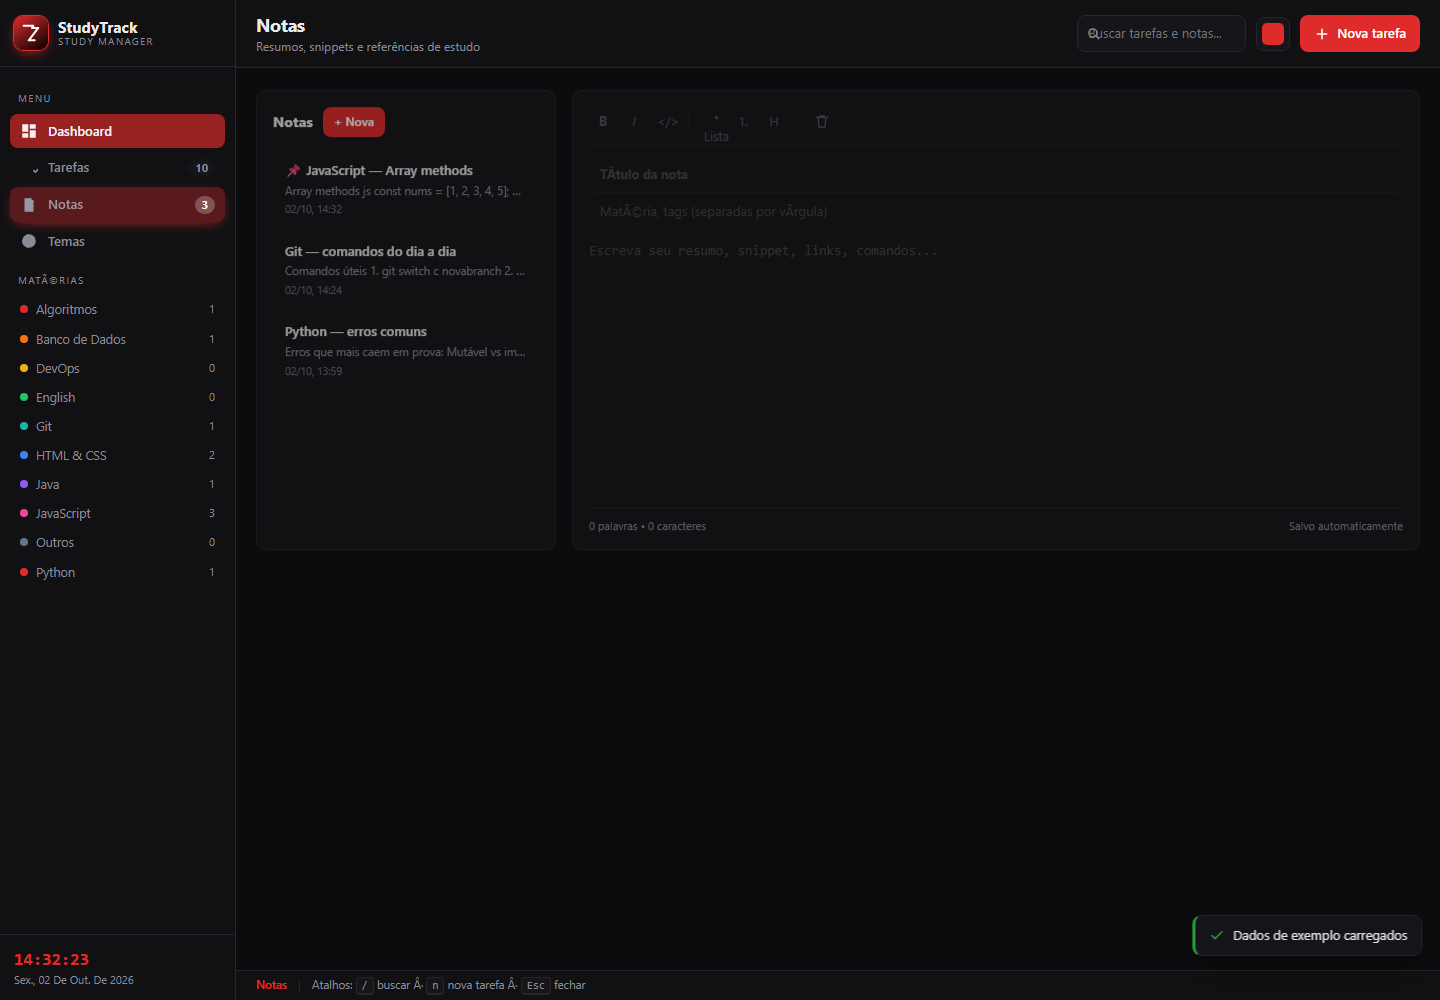
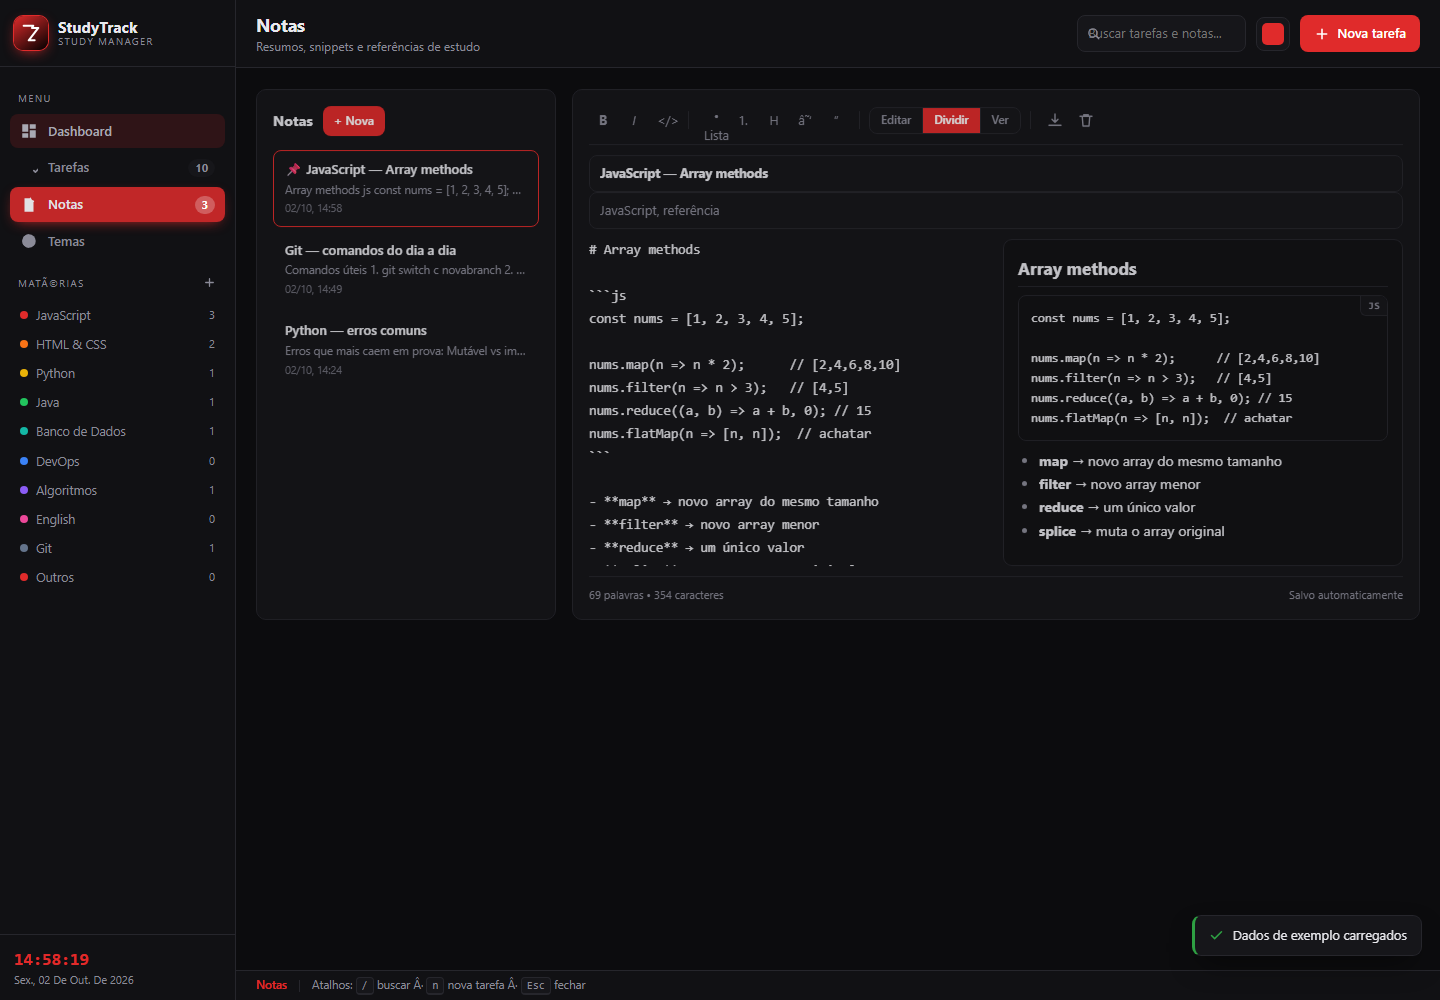
fixing things

diff --git a/js/app.js b/js/app.js
@@ -60,6 +60,7 @@ const defaultPrefs = {
   density: 'normal',
   motion: 'on',
   font: 'system',
+  notesMode: 'split',
   accentCustom: false,
   subjectColors: {}
 };
@@ -213,6 +214,7 @@ function applyPrefs() {
   el('opt-font').value = prefs.font;
   const metaTheme = document.querySelector('meta[name="theme-color"]');
   if (metaTheme) metaTheme.setAttribute('content', prefs.theme === 'paper' ? '#f2f3f6' : '#0c0c0e');
+  if (el('editor-body')) setNotesMode(prefs.notesMode);
   renderThemeGrid();
 }
 
@@ -625,6 +627,133 @@ function renderRecentNotes() {
 const escapeHtml = s => String(s ?? '').replace(/[&<>"']/g, c =>
   ({ '&':'&amp;','<':'&lt;','>':'&gt;','"':'&quot;',"'":'&#39;' }[c]));
 
+/* ================= markdown ================= */
+const safeUrl = u => /^(https?:\/\/|mailto:|#|\/|\.{1,2}\/)/i.test(String(u).trim()) ? String(u).trim() : '#';
+
+const mdInline = raw => escapeHtml(raw)
+  .replace(/!\[([^\]]*)\]\(([^)\s]+)\)/g, (_, alt, url) =>
+    `<img src="${safeUrl(url)}" alt="${alt}" loading="lazy">`)
+  .replace(/\[([^\]]+)\]\(([^)\s]+)\)/g, (_, txt, url) =>
+    `<a href="${safeUrl(url)}" target="_blank" rel="noopener noreferrer">${txt}</a>`)
+  .replace(/`([^`]+)`/g, '<code>$1</code>')
+  .replace(/\*\*\*([^*]+)\*\*\*/g, '<strong><em>$1</em></strong>')
+  .replace(/\*\*([^*]+)\*\*/g, '<strong>$1</strong>')
+  .replace(/(^|[^*\w])\*([^*\n]+)\*/g, '$1<em>$2</em>')
+  .replace(/(^|[^_\w])__([^_\n]+)__/g, '$1<strong>$2</strong>')
+  .replace(/(^|[^_\w])_([^_\n]+)_/g, '$1<em>$2</em>')
+  .replace(/~~([^~]+)~~/g, '<del>$1</del>')
+  .replace(/==([^=\n]+)==/g, '<mark>$1</mark>');
+
+function mdToHtml(md) {
+  const lines = String(md ?? '').replace(/\r\n?/g, '\n').split('\n');
+  const out = [];
+  let para = [];
+  let list = null;
+  let quote = false;
+  let i = 0;
+
+  const closePara = () => {
+    if (para.length) {
+      out.push(`<p>${mdInline(para.join(' '))}</p>`);
+      para = [];
+    }
+  };
+  const closeList = () => {
+    if (list) { out.push(`</${list}>`); list = null; }
+  };
+  const closeQuote = () => {
+    if (quote) { out.push('</blockquote>'); quote = false; }
+  };
+  const closeBlocks = () => { closePara(); closeList(); closeQuote(); };
+
+  while (i < lines.length) {
+    const line = lines[i];
+
+    const fence = line.match(/^```+\s*([\w+#.-]*)\s*$/);
+    if (fence) {
+      closeBlocks();
+      const lang = fence[1] || '';
+      const buf = [];
+      i++;
+      while (i < lines.length && !/^```+\s*$/.test(lines[i])) { buf.push(lines[i]); i++; }
+      i++;
+      out.push(`<pre data-lang="${escapeHtml(lang)}"><code>${escapeHtml(buf.join('\n'))}</code></pre>`);
+      continue;
+    }
+
+    const heading = line.match(/^(#{1,6})\s+(.*)$/);
+    if (heading) {
+      closeBlocks();
+      const level = Math.min(heading[1].length + 1, 6);
+      out.push(`<h${level}>${mdInline(heading[2].trim())}</h${level}>`);
+      i++;
+      continue;
+    }
+
+    if (/^([-*_])\s*(\1\s*){2,}$/.test(line)) {
+      closeBlocks();
+      out.push('<hr>');
+      i++;
+      continue;
+    }
+
+    if (/^>\s?/.test(line)) {
+      closePara();
+      closeList();
+      const inner = [];
+      if (!quote) { out.push('<blockquote>'); quote = true; }
+      while (i < lines.length && /^>\s?/.test(lines[i])) {
+        inner.push(lines[i].replace(/^>\s?/, ''));
+        i++;
+      }
+      out.push(mdToHtml(inner.join('\n')));
+      continue;
+    }
+
+    const task = line.match(/^[-*+]\s+\[([ xX])\]\s+(.*)$/);
+    if (task) {
+      closePara();
+      closeQuote();
+      if (list !== 'ul') { closeList(); out.push('<ul class="md-tasks">'); list = 'ul'; }
+      out.push(`<li><input type="checkbox" disabled${task[1].toLowerCase() === 'x' ? ' checked' : ''}><span>${mdInline(task[2])}</span></li>`);
+      i++;
+      continue;
+    }
+
+    const ul = line.match(/^[-*+]\s+(.*)$/);
+    if (ul) {
+      closePara();
+      closeQuote();
+      if (list !== 'ul') { closeList(); out.push('<ul>'); list = 'ul'; }
+      out.push(`<li>${mdInline(ul[1])}</li>`);
+      i++;
+      continue;
+    }
+
+    const ol = line.match(/^\d+[.)]\s+(.*)$/);
+    if (ol) {
+      closePara();
+      closeQuote();
+      if (list !== 'ol') { closeList(); out.push('<ol>'); list = 'ol'; }
+      out.push(`<li>${mdInline(ol[1])}</li>`);
+      i++;
+      continue;
+    }
+
+    if (!line.trim()) {
+      closeBlocks();
+      i++;
+      continue;
+    }
+
+    para.push(line.trim());
+    i++;
+  }
+
+  closeBlocks();
+  return out.join('');
+}
+
 function renderNoteList() {
   const q = ui.search.trim().toLowerCase();
   const list = [...notes]
@@ -645,7 +774,11 @@ function renderNoteList() {
 }
 
 function renderEditor() {
-  const n = notes.find(x => x.id === ui.activeNoteId);
+  let n = notes.find(x => x.id === ui.activeNoteId);
+  if (!n && notes.length) {
+    ui.activeNoteId = notes[0].id;
+    n = notes[0];
+  }
   const has = !!n;
   ['note-title', 'note-tags', 'note-content'].forEach(id => {
     el(id).disabled = !has;
@@ -658,18 +791,54 @@ function renderEditor() {
     el('note-tags').value = '';
     el('note-content').value = '';
     el('note-meta').textContent = '0 palavras • 0 caracteres';
+    renderPreview();
     return;
   }
   el('note-title').value = n.title;
   el('note-tags').value = n.tags.join(', ');
   el('note-content').value = n.content;
   updateNoteMeta();
+  renderPreview();
 }
 
 function updateNoteMeta() {
   const v = el('note-content').value;
   const words = v.trim() ? v.trim().split(/\s+/).length : 0;
   el('note-meta').textContent = `${words} palavra${words !== 1 ? 's' : ''} • ${v.length} caracteres`;
+}
+
+function renderPreview() {
+  const box = el('note-preview');
+  if (!box) return;
+  const html = mdToHtml(el('note-content').value);
+  box.innerHTML = html || '<p class="md-empty">Nada para visualizar ainda — comece a escrever em Markdown.</p>';
+}
+
+function setNotesMode(mode) {
+  prefs.notesMode = ['edit', 'split', 'preview'].includes(mode) ? mode : 'split';
+  el('editor-body').dataset.mode = prefs.notesMode;
+  $$('.mode-btn').forEach(b => b.classList.toggle('is-active', b.dataset.mode === prefs.notesMode));
+  save(K.prefs, prefs);
+}
+
+function downloadNoteAsMd() {
+  const n = notes.find(x => x.id === ui.activeNoteId);
+  if (!n) { toast('Abra uma nota antes de exportar', 'warn'); return; }
+  const title = n.title.trim() || 'nota';
+  const front = [`# ${title}`];
+  if (n.tags.length) front.push(`_${n.tags.join(' · ')}_`);
+  front.push(`_atualizado em ${fmtDateTime(n.updatedAt)} · StudyTrack_`, '');
+  const body = `${front.join('\n')}\n${n.content.trim()}\n`;
+  const slug = title.toLowerCase().normalize('NFD').replace(/[\u0300-\u036f]/g, '')
+    .replace(/[^a-z0-9]+/g, '-').replace(/^-|-$/g, '') || 'nota';
+  const url = URL.createObjectURL(new Blob([body], { type: 'text/markdown;charset=utf-8' }));
+  const a = document.createElement('a');
+  a.href = url;
+  a.download = `${slug}.md`;
+  a.click();
+  URL.revokeObjectURL(url);
+  toast(`"${slug}.md" baixado`, 'ok');
+  setStatus('Nota exportada como Markdown');
 }
 
 function createNote() {
@@ -852,6 +1021,8 @@ function seedData() {
   subjects = SUBJECTS_DEFAULT.slice();
   prefs.subjectColors = {};
   subjects.forEach((s, i) => { prefs.subjectColors[s] = SUBJECT_COLORS[i % SUBJECT_COLORS.length]; });
+  ui.activeNoteId = notes[0].id;
+  ui.filters.subject = '';
   persistAll();
   renderAll();
   renderSubjectManager();
@@ -945,6 +1116,7 @@ function bindEvents() {
         renderAll();
         toast('Cor de destaque restaurada', 'ok');
       }
+      if (a === 'note-download') downloadNoteAsMd();
       if (a === 'note-delete') {
         const n = notes.find(x => x.id === ui.activeNoteId);
         if (!n) return;
@@ -1106,9 +1278,16 @@ function bindEvents() {
   el('note-title').addEventListener('input', e => updateNote({ title: e.target.value }));
   el('note-tags').addEventListener('input', e =>
     updateNote({ tags: e.target.value.split(',').map(s => s.trim()).filter(Boolean) }));
-  el('note-content').addEventListener('input', e => { updateNoteMeta(); updateNote({ content: e.target.value }); });
+  el('note-content').addEventListener('input', e => {
+    updateNoteMeta();
+    renderPreview();
+    updateNote({ content: e.target.value });
+  });
 
   $('.editor-toolbar').addEventListener('click', e => {
+    const modeBtn = e.target.closest('.mode-btn');
+    if (modeBtn) { setNotesMode(modeBtn.dataset.mode); return; }
+
     const tool = e.target.closest('.tool');
     if (!tool || !tool.dataset.wrap && !tool.dataset.prefix) return;
     const ta = el('note-content');
@@ -1120,14 +1299,17 @@ function bindEvents() {
       ins = w + sel + w;
       caret = start + ins.length;
     } else {
-      const pfx = tool.dataset.prefix + '\n';
-      ins = sel.split('\n').map(l => pfx + l).join('\n');
+      const pfx = tool.dataset.prefix;
+      ins = sel
+        ? sel.split('\n').map(l => pfx + l).join('\n')
+        : pfx;
       caret = start + ins.length;
     }
     ta.value = ta.value.slice(0, start) + ins + ta.value.slice(end);
     ta.focus();
     ta.setSelectionRange(caret, caret);
     updateNoteMeta();
+    renderPreview();
     updateNote({ content: ta.value });
   });
 

diff --git a/css/style.css b/css/style.css
@@ -282,21 +282,63 @@ select{appearance:none;background-image:linear-gradient(45deg,transparent 50%,va
 .note-item small{font-size:10.5px;color:var(--muted);opacity:.75}
 
 .notes-editor{display:flex;flex-direction:column;min-height:460px}
-.editor-toolbar{display:flex;align-items:center;gap:3px;padding-bottom:10px;margin-bottom:10px;border-bottom:1px solid var(--border)}
+.editor-toolbar{display:flex;align-items:center;gap:3px;flex-wrap:wrap;padding-bottom:10px;margin-bottom:10px;border-bottom:1px solid var(--border)}
 .editor-toolbar .sep{width:1px;height:18px;background:var(--border);margin:0 6px}
 .tool{width:28px;height:28px;border-radius:6px;display:grid;place-items:center;font-size:12.5px;color:var(--muted)}
 .tool:hover{background:var(--bg-3);color:var(--accent)}
+.mode-switch{display:flex;background:var(--bg-3);border:1px solid var(--border);border-radius:8px;overflow:hidden;flex:none}
+.mode-btn{padding:4px 11px;font-size:11.5px;font-weight:600;color:var(--muted);transition:background .15s,color .15s}
+.mode-btn+.mode-btn{border-left:1px solid var(--border)}
+.mode-btn:hover{color:var(--text)}
+.mode-btn.is-active{background:var(--accent-fill);color:#fff}
 .note-title-input{border:0;background:none;padding:0;font-size:19px;font-weight:650;letter-spacing:-.2px}
 .note-tags-input{border:0;background:none;padding:0 0 10px;font-size:12px;color:var(--muted);border-bottom:1px solid var(--border);margin-bottom:10px}
 .note-title-input:focus,.note-tags-input:focus{border-color:transparent;outline:none;border-bottom-color:var(--border)}
-.note-content{flex:1;border:0;background:none;padding:0;font-size:13.5px;line-height:1.7;resize:none;font-family:var(--mono)}
+.note-content{flex:1;border:0;background:none;padding:0;font-size:13.5px;line-height:1.7;resize:none;font-family:var(--mono);min-width:0}
 .note-content:focus{outline:none;border:0}
+.editor-body{flex:1;min-height:0;display:grid;gap:14px;grid-template-columns:1fr 1fr}
+.editor-body[data-mode="edit"]{grid-template-columns:1fr}
+.editor-body[data-mode="edit"] .editor-preview{display:none}
+.editor-body[data-mode="preview"]{grid-template-columns:1fr}
+.editor-body[data-mode="preview"] .note-content{display:none}
+.editor-preview{
+  overflow-y:auto;min-width:0;
+  background:var(--bg-2);border:1px solid var(--border);border-radius:9px;padding:14px;
+}
+.editor-preview:focus-within{border-color:var(--accent)}
+.editor-body[data-mode="preview"] .editor-preview{border-radius:9px}
 .editor-foot{display:flex;justify-content:space-between;font-size:11px;padding-top:10px;margin-top:10px;border-top:1px solid var(--border)}
-.editor-preview{flex:1;font-size:13.5px;line-height:1.7;overflow-y:auto;border-radius:8px;padding:8px;background:var(--bg-2)}
-.editor-preview code{font-family:var(--mono);background:var(--bg-3);padding:1px 5px;border-radius:4px;color:var(--accent);font-size:12.5px}
-.editor-preview pre{background:var(--bg-2);border:1px solid var(--border);padding:10px;border-radius:8px;overflow-x:auto;font-family:var(--mono);font-size:12.5px}
-.editor-preview h3{font-size:16px;margin:10px 0 4px}
-.editor-preview strong{color:var(--accent)}
+@media(max-width:860px){
+  .editor-body[data-mode="split"]{grid-template-columns:1fr;grid-template-rows:1fr 1fr}
+}
+
+/* ---------- markdown preview ---------- */
+.editor-preview h2{font-size:17px;margin:2px 0 8px;padding-bottom:5px;border-bottom:1px solid var(--border)}
+.editor-preview h3{font-size:15px;margin:14px 0 5px}
+.editor-preview h4{font-size:13.5px;margin:12px 0 4px;color:var(--muted)}
+.editor-preview h5,.editor-preview h6{font-size:12.5px;margin:10px 0 4px;color:var(--muted);text-transform:uppercase;letter-spacing:.5px}
+.editor-preview p{margin:0 0 9px}
+.editor-preview ul,.editor-preview ol{margin:0 0 10px;padding-left:21px}
+.editor-preview ul{list-style:disc}
+.editor-preview ol{list-style:decimal}
+.editor-preview li{margin:3px 0}
+.editor-preview li::marker{color:var(--muted)}
+.editor-preview blockquote{border-left:3px solid var(--accent);padding:3px 0 3px 12px;margin:0 0 10px;color:var(--muted)}
+.editor-preview blockquote p:last-child{margin-bottom:0}
+.editor-preview hr{border:0;border-top:1px solid var(--border);margin:16px 0}
+.editor-preview a{color:var(--accent);text-decoration:none;border-bottom:1px solid color-mix(in srgb,var(--accent) 45%,transparent)}
+.editor-preview a:hover{border-bottom-color:var(--accent)}
+.editor-preview del{opacity:.6}
+.editor-preview img{max-width:100%;border-radius:7px;margin:4px 0}
+.editor-preview code{font-family:var(--mono);background:var(--bg-3);padding:1.5px 5px;border-radius:4px;color:var(--accent-2);font-size:12.5px}
+.editor-preview pre{position:relative;background:var(--bg-2);border:1px solid var(--border);padding:12px;border-radius:8px;overflow-x:auto;font-family:var(--mono);font-size:12.5px;line-height:1.6;margin:0 0 10px}
+.editor-preview pre code{background:none;padding:0;color:var(--text)}
+.editor-preview pre[data-lang]:not([data-lang=""])::before{content:attr(data-lang);position:absolute;top:0;right:0;font-size:9.5px;font-weight:700;text-transform:uppercase;letter-spacing:.6px;padding:2px 7px;color:var(--muted);background:var(--bg-3);border-left:1px solid var(--border);border-bottom:1px solid var(--border);border-radius:0 7px 0 6px}
+.editor-preview .md-tasks{list-style:none;padding-left:2px}
+.editor-preview .md-tasks li{display:flex;align-items:flex-start;gap:8px}
+.editor-preview .md-tasks input{margin-top:4px;accent-color:var(--accent-fill);flex:none}
+.editor-preview .md-tasks li:has(input:checked) span{color:var(--muted);text-decoration:line-through}
+.editor-preview .md-empty{color:var(--muted);font-size:12.5px;font-style:italic;text-align:center;padding:26px 10px}
 mark{background:color-mix(in srgb,var(--accent) 35%,transparent);color:inherit;border-radius:3px;padding:0 2px}
 
 /* ---------- themes ---------- */

diff --git a/index.html b/index.html
@@ -206,14 +206,28 @@
               <button class="tool" data-prefix="- " title="Lista">&bull; Lista</button>
               <button class="tool" data-prefix="1. " title="Numerada">1.</button>
               <button class="tool" data-prefix="# " title="Título">H</button>
+              <button class="tool" data-prefix="- [ ] " title="Checklist">☑</button>
+              <button class="tool" data-prefix="&gt; " title="Citação">&rdquo;</button>
               <span class="sep"></span>
+              <div class="mode-switch" role="group" aria-label="Modo de visualização">
+                <button class="mode-btn" data-mode="edit">Editar</button>
+                <button class="mode-btn" data-mode="split">Dividir</button>
+                <button class="mode-btn" data-mode="preview">Ver</button>
+              </div>
+              <span class="sep"></span>
+              <button class="tool" data-action="note-download" title="Baixar como .md">
+                <svg viewBox="0 0 24 24"><path d="M12 4v11m0 0l4-4m-4 4l-4-4M4 19h16" fill="none" stroke="currentColor" stroke-width="1.9" stroke-linecap="round" stroke-linejoin="round"/></svg>
+              </button>
               <button class="tool" data-action="note-delete" title="Excluir nota">
                 <svg viewBox="0 0 24 24"><path d="M4 7h16M9 7V5h6v2M7 7l1 13h8l1-13" fill="none" stroke="currentColor" stroke-width="1.9" stroke-linecap="round" stroke-linejoin="round"/></svg>
               </button>
             </div>
             <input type="text" id="note-title" class="note-title-input" placeholder="Título da nota">
             <input type="text" id="note-tags" class="note-tags-input" placeholder="Matéria, tags (separadas por vírgula)">
-            <textarea id="note-content" class="note-content" placeholder="Escreva seu resumo, snippet, links, comandos..."></textarea>
+            <div class="editor-body" id="editor-body" data-mode="split">
+              <textarea id="note-content" class="note-content" placeholder="Escreva em Markdown: # título, **negrito**, `código`, - listas, - [ ] checklists, ``` blocos de código..."></textarea>
+              <div class="editor-preview" id="note-preview" aria-live="polite"></div>
+            </div>
             <div class="editor-foot">
               <span class="muted" id="note-meta">0 palavras • 0 caracteres</span>
               <span class="muted">Salvo automaticamente</span>
